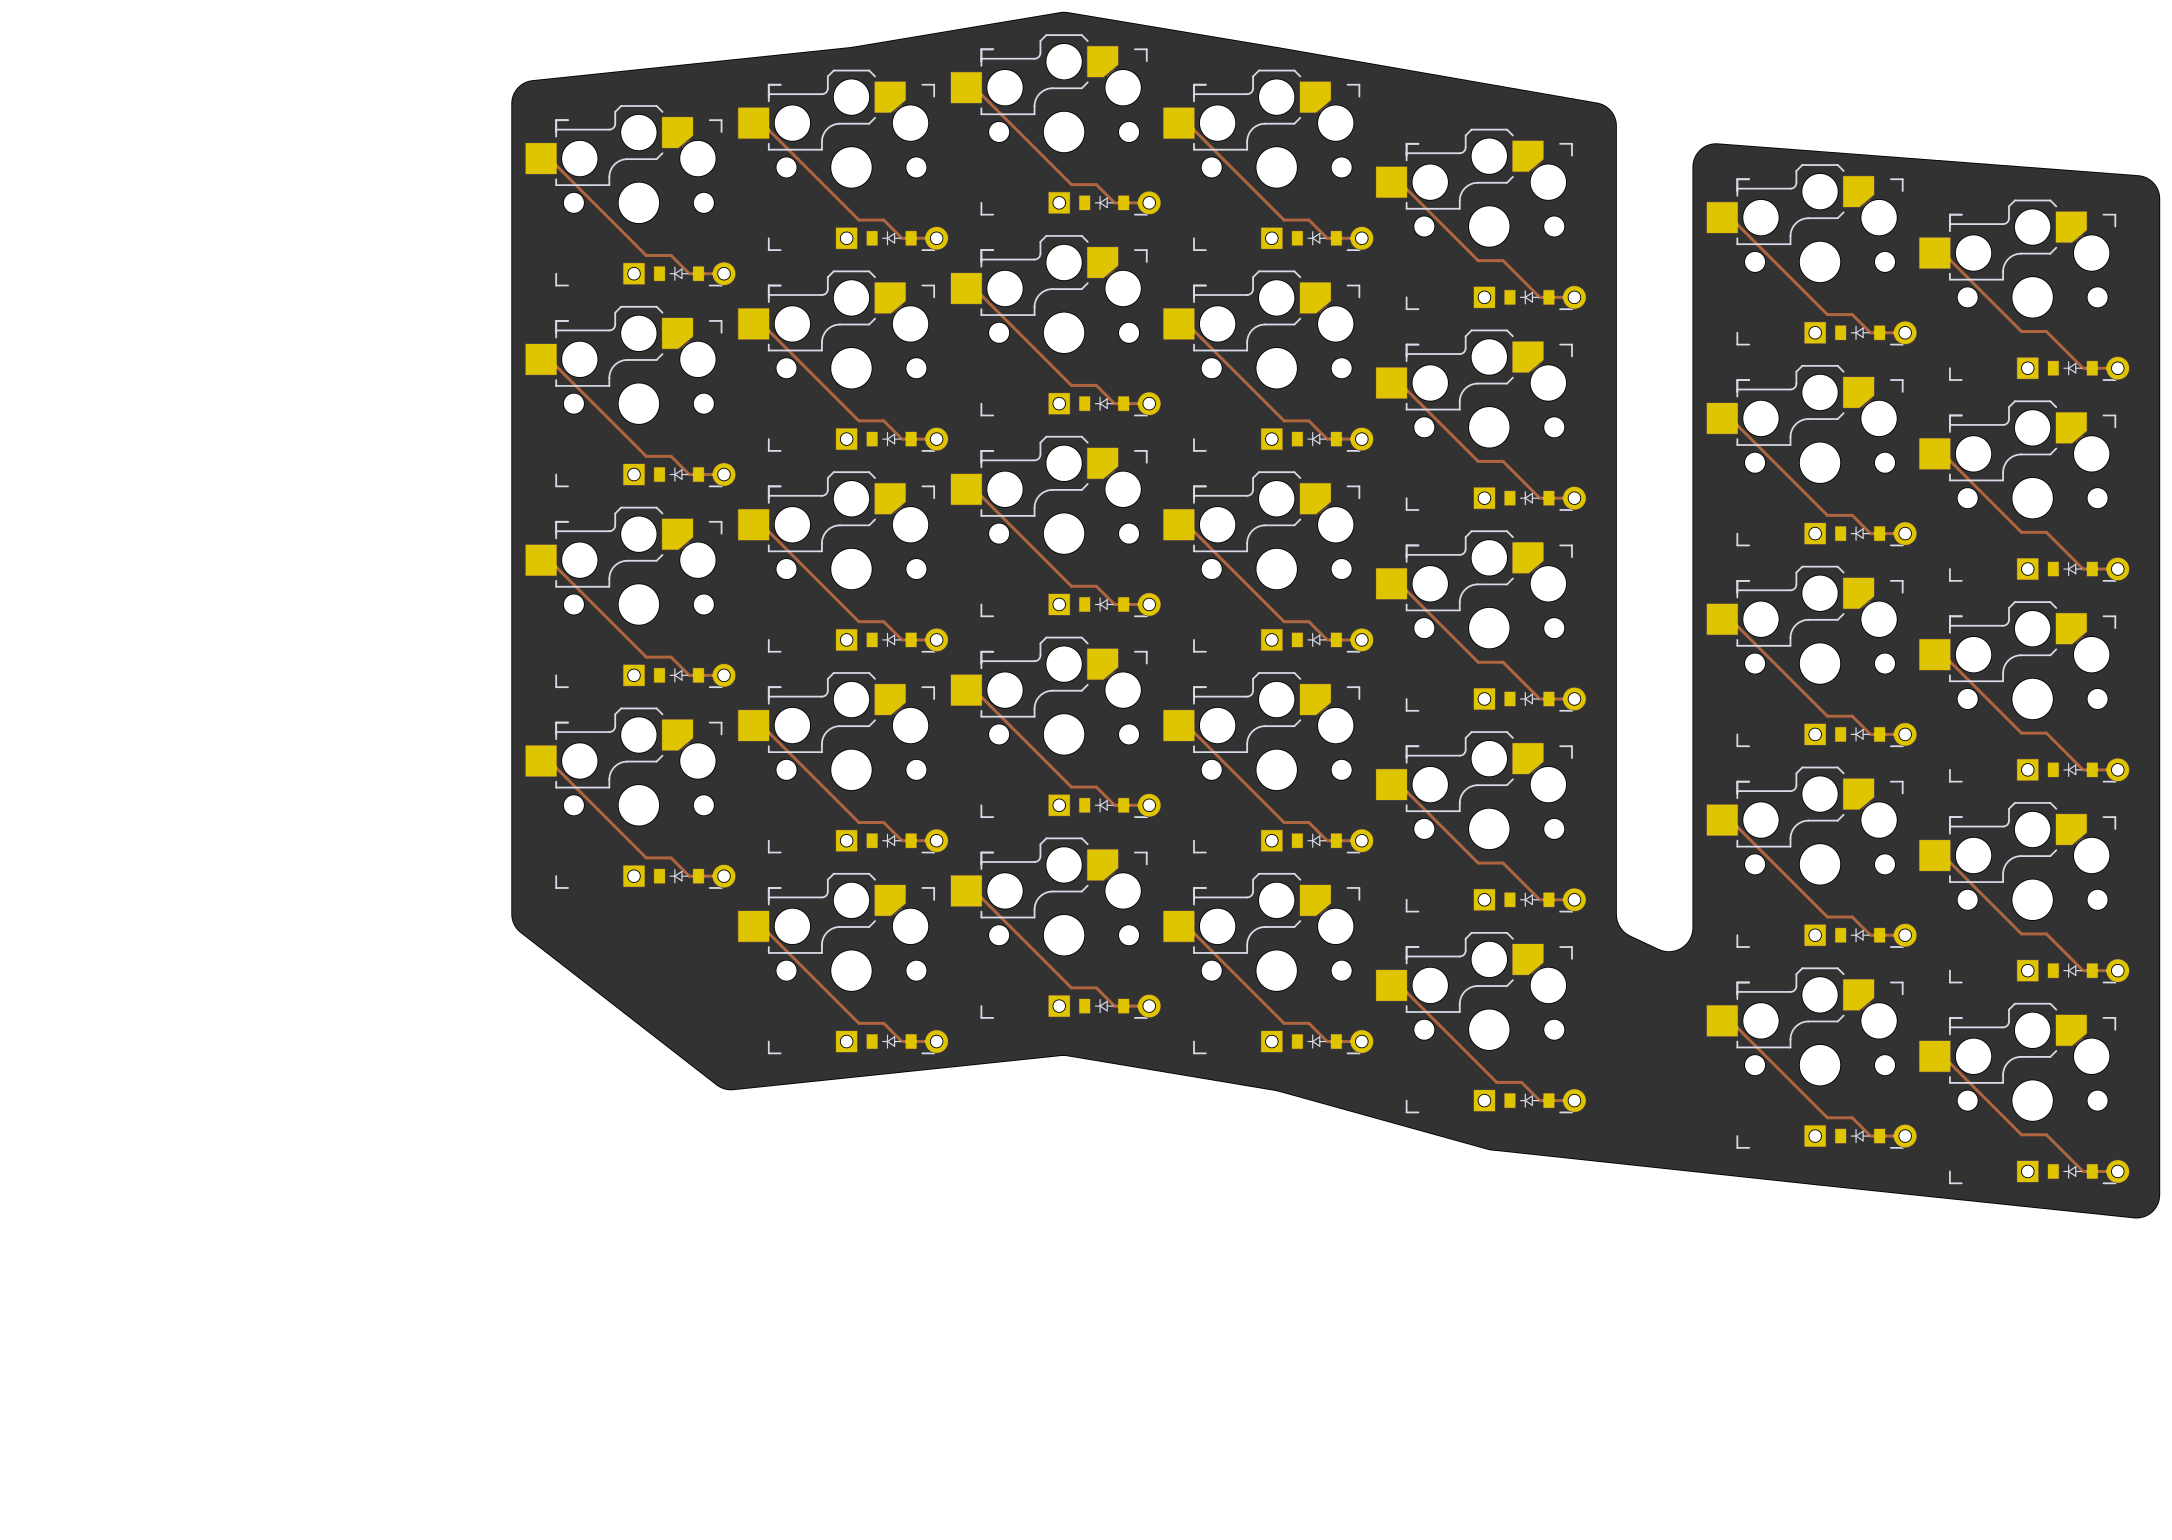
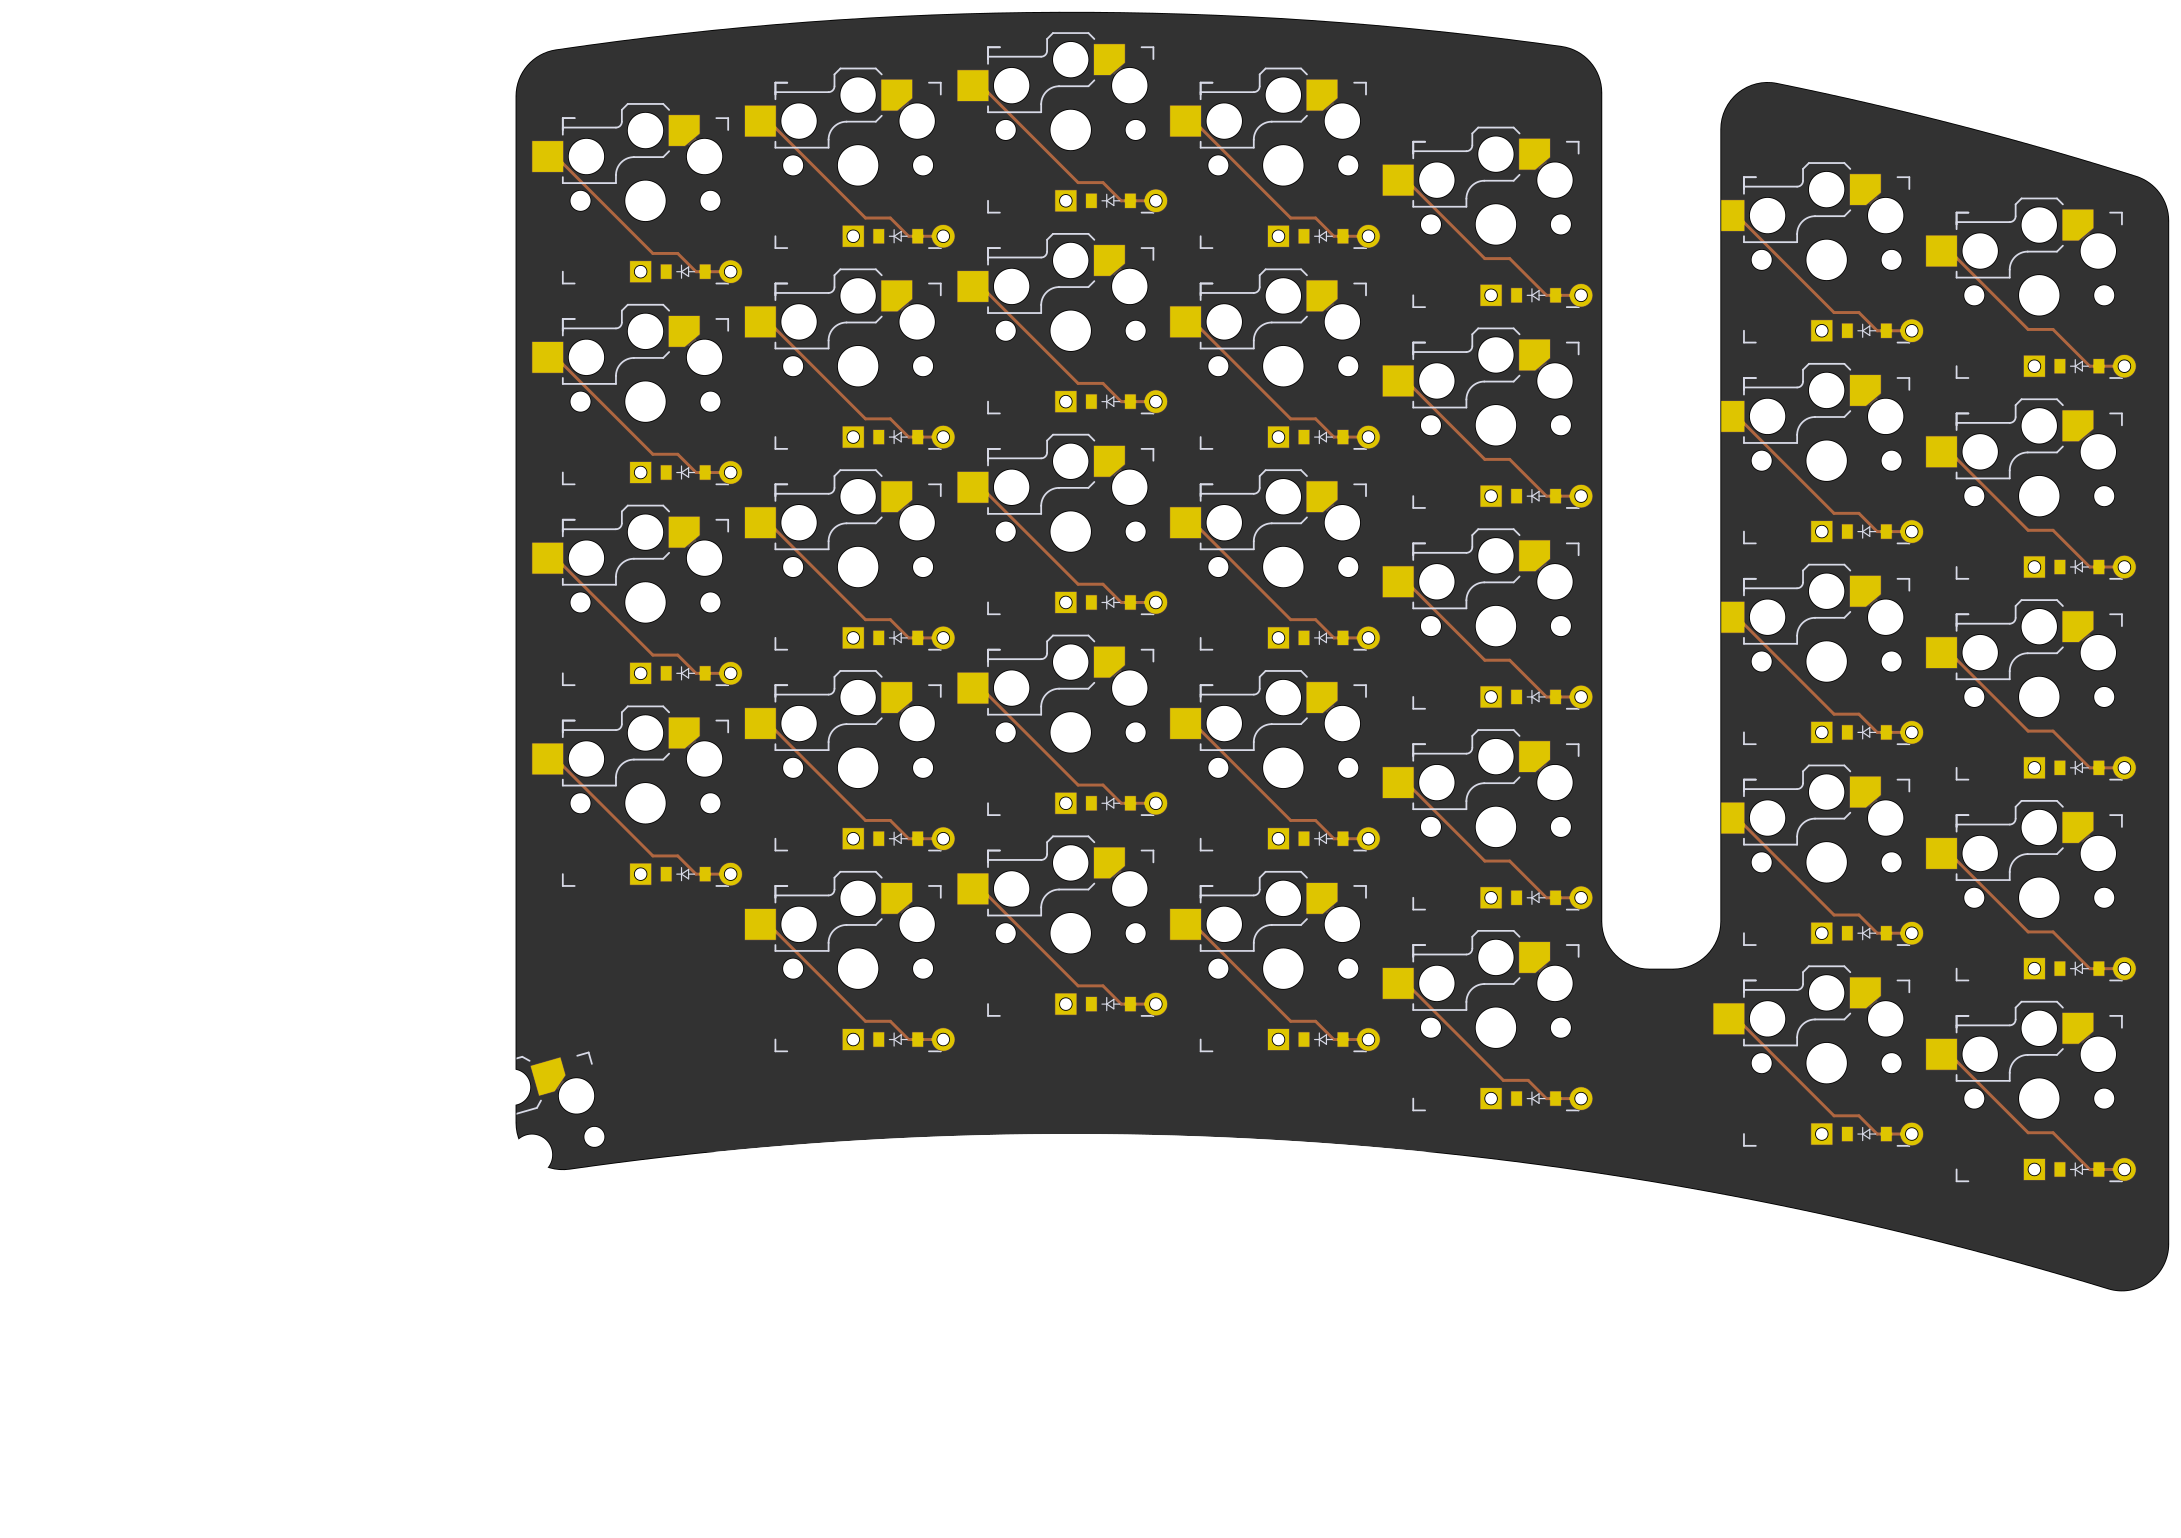
Adds a magnetic connector for the module Changes the outline to be a smooth arc rather than a polygon

diff --git a/input/footprints/magnetic_vik_keyboard_connector.js b/input/footprints/magnetic_vik_keyboard_connector.js
@@ -1,0 +1,68 @@
+/* Footprint for the Azoteq TPS65 Trackpad
+The Azoteq line has what they call a "hotbar" which has 2.00mm pitch that I find a lot easier to deal with than the FFC connector
+This footprint includes a silk for the trackpad itself and six solder pads to match up to the six pads on the "hotbar"
+It is designed to be soldered to 6P, SMD, right angle, PH 2.00mm sockets like these: https://www.aliexpress.us/item/3256802928739446.html
+Then connected to the trackpad using a 6P, PH 2.0mm, same side, 10cm-long, Double Head Terminal Wire like this one: https://www.aliexpress.us/item/3256805957087430.html
+
+In my experience, you only need the first four pins, SDA, SCL, VCC, and GND to get the trackpad to work with QMK, so 4P connectors and cable could be substituted
+*/
+module.exports = {
+  params: {
+    designator: 'VIK',
+    side: "F",
+    V3V: {type: 'net', value: 'V3V'},
+    GND: {type: 'net', value: 'GND'},
+    SDA: {type: 'net', value: 'SDA'},
+    SCL: {type: 'net', value: 'SCL'},
+    RGB_LED_OUT: {type: 'net', value: 'RGB_LED_OUT'},
+    V5V: {type: 'net', value: 'V5V'},
+    GPIO1: {type: 'net', value: 'GPIO1'},
+    MOSI: {type: 'net', value: 'MOSI'},
+    GPIO2: {type: 'net', value: 'GPIO2'},
+    SPI_CS: {type: 'net', value: 'SPI_CS'},
+    MISO: {type: 'net', value: 'MISO'},
+    SCLK: {type: 'net', value: 'SCLK'}
+  },
+  body: p => {
+    const footprint = `
+            (module "zzkeeb:Connector_VIK-magnetic-keyboard" (layer F.Cu) (tedit 5DD50112)
+            ${p.at /* parametric position */}
+            (attr virtual)
+            
+            (fp_text reference "VIK_K1" (at 0.17 -10.05 90) (layer "Dwgs.User") hide
+                (effects (font (size 1 1) (thickness 0.15)))
+            )
+            (fp_text value "Connector_VIK-keyboard" (at 0 -12 90) (layer "F.Fab") hide
+                (effects (font (size 1 1) (thickness 0.15)))
+            )
+            (fp_circle (center -2.5 6.5) (end -2.7 6.5) (width 0.1) (layer "B.SilkS") )
+            (fp_circle (center -2.5 6.5) (end -2.25 6.5) (width 0.1) (layer "F.SilkS") )
+            (pad "1" thru_hole circle (at -1.1 5.5 270) (size 1.7 1.7) (drill 0.9) (layers "*.Cu" "*.Mask")
+              ${p.V3V.str} )
+            (pad "2" thru_hole circle (at 1.1 5.5 270) (size 1.7 1.7) (drill 0.9) (layers "*.Cu" "*.Mask")
+              ${p.GND.str} )
+            (pad "3" thru_hole circle (at -1.1 3.3 270) (size 1.7 1.7) (drill 0.9) (layers "*.Cu" "*.Mask")
+              ${p.SDA.str} )
+            (pad "4" thru_hole circle (at 1.1 3.3 270) (size 1.7 1.7) (drill 0.9) (layers "*.Cu" "*.Mask")
+              ${p.SCL.str} )
+            (pad "5" thru_hole circle (at -1.1 1.1 270) (size 1.7 1.7) (drill 0.9) (layers "*.Cu" "*.Mask")
+              ${p.RGB_LED_OUT.str} )
+            (pad "6" thru_hole circle (at 1.1 1.1 270) (size 1.7 1.7) (drill 0.9) (layers "*.Cu" "*.Mask")
+              ${p.V5V.str} )
+            (pad "7" thru_hole circle (at -1.1 -1.1 270) (size 1.7 1.7) (drill 0.9) (layers "*.Cu" "*.Mask")
+              ${p.GPIO1.str} )
+            (pad "8" thru_hole circle (at 1.1 -1.1 270) (size 1.7 1.7) (drill 0.9) (layers "*.Cu" "*.Mask")
+              ${p.MOSI.str} )
+            (pad "9" thru_hole circle (at -1.1 -3.3 270) (size 1.7 1.7) (drill 0.9) (layers "*.Cu" "*.Mask")
+              ${p.GPIO2.str} )
+            (pad "10" thru_hole circle (at 1.1 -3.3 270) (size 1.7 1.7) (drill 0.9) (layers "*.Cu" "*.Mask")
+              ${p.SPI_CS.str} )
+            (pad "11" thru_hole circle (at -1.1 -5.5 270) (size 1.7 1.7) (drill 0.9) (layers "*.Cu" "*.Mask")
+              ${p.MISO.str} )
+            (pad "12" thru_hole circle (at 1.1 -5.5 270) (size 1.7 1.7) (drill 0.9) (layers "*.Cu" "*.Mask")
+              ${p.SCLK.str} )
+         )   
+        `
+    return footprint;
+  }
+}
